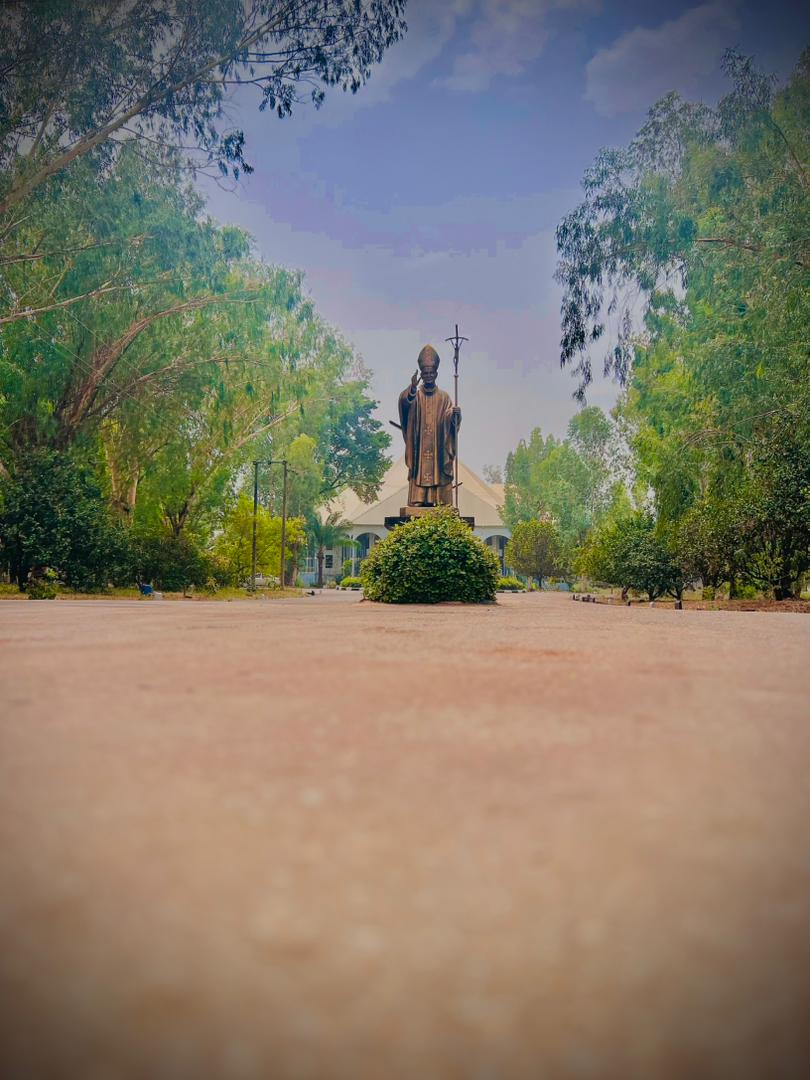
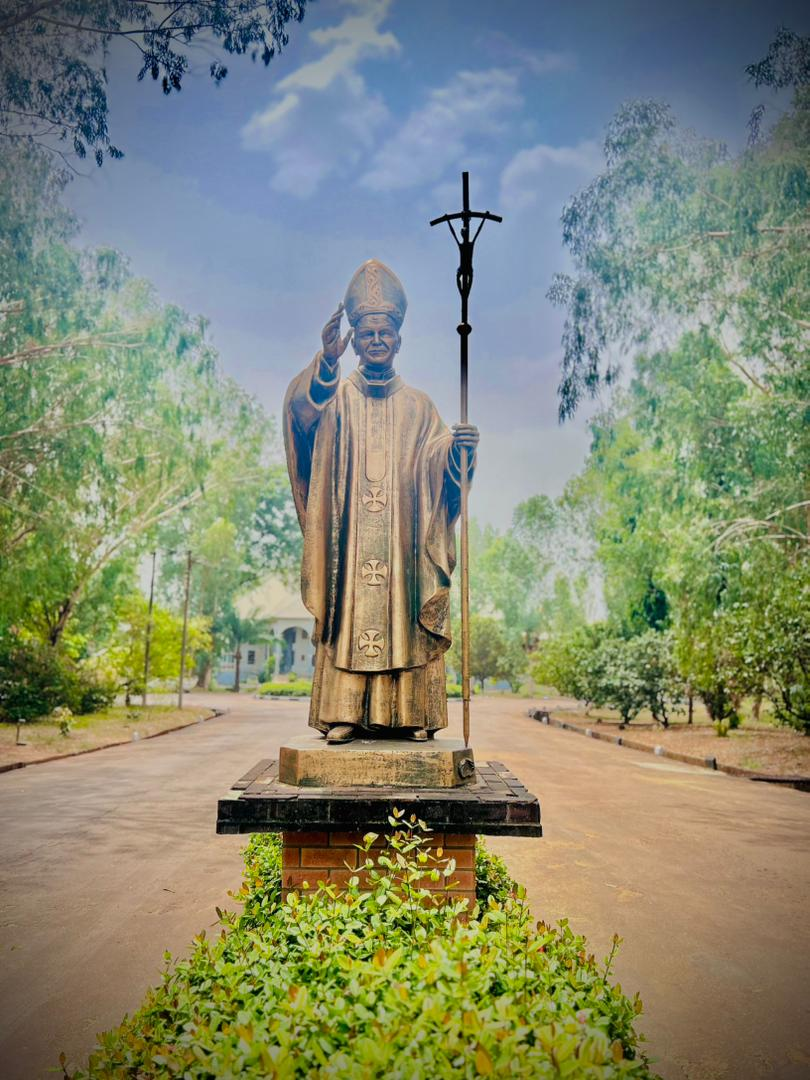
UI adjustments

diff --git a/src/index.css b/src/index.css
@@ -657,14 +657,15 @@ footer {
 
 .welcome-text h2 {
     font-size: 32px;
-    margin-bottom: 25px;
+    margin-bottom: 15px;
     color: #333;
 }
 
 .welcome-text p {
-    font-size: 18px;
-    line-height: 1.8;
+    font-size: 15px;
+    line-height: 2;
     color: #444;
+    text-align: justify;
 }
 
 .welcome-line {
@@ -718,6 +719,7 @@ footer {
         font-size: 17px;
         line-height: 1.7;
         color: #333;
+        text-align: justify;
     }
 
     .welcome-line {
@@ -735,6 +737,7 @@ footer {
     .welcome-text p {
         font-size: 15px;
         line-height: 1.6;
+        text-align: justify;
     }
 
     .welcome-text {
@@ -1121,7 +1124,7 @@ footer {
 .centenary-btn a {
     background: #3ba3c9;
     color: white;
-    padding: 14px 28px;
+    padding: 10px 28px;
     text-decoration: none;
     font-size: 16px;
     border-radius: 6px;
@@ -1223,7 +1226,7 @@ footer {
   display:inline-block;
   background:#1c8bb4;
   color:white;
-  padding:12px 22px;
+  padding:10px 22px;
   text-decoration:none;
   border-radius:5px;
   margin-top:10px;
@@ -1655,7 +1658,7 @@ footer {
 
 /* See More Button */
 .facilities-footer {
-    margin-top: 50px;
+    margin-top: 30px;
 }
 
 .see-more-btn {
@@ -1697,9 +1700,9 @@ footer {
 }
 
 .pub-title {
-  font-size: 48px;
+  font-size: 40px;
   color: #7a3c3c; /* Dark Maroon */
-  margin-bottom: 50px;
+  margin-bottom: 20px;
   font-weight: bold;
 }
 

diff --git a/src/components/Publications.jsx b/src/components/Publications.jsx
@@ -37,21 +37,24 @@ const Publications = () => {
   const [currentIndex, setCurrentIndex] = useState(0);
 
   // Auto-slide effect
-  useEffect(() => {
-    const timer = setInterval(() => {
-      handleNext();
-    }, 4000); // Slides every 4 seconds
-    return () => clearInterval(timer);
-  }, [currentIndex]);
-
   const handleNext = () => {
-    setCurrentIndex((prev) => (prev + 1) % (publicationData.length - 2)); 
-    // "- 2" ensures we don't slide into empty space when showing 3 at a time
-  };
+  setCurrentIndex((prev) => (prev + 1) % (publicationData.length - 2));
+};
 
-  const handlePrev = () => {
-    setCurrentIndex((prev) => (prev - 1 + (publicationData.length - 2)) % (publicationData.length - 2));
-  };
+const handlePrev = () => {
+  setCurrentIndex((prev) => 
+    (prev - 1 + (publicationData.length - 2)) % (publicationData.length - 2)
+  );
+};
+
+// Auto-slide effect
+useEffect(() => {
+  const timer = setInterval(() => {
+    handleNext();
+  }, 4000);
+
+  return () => clearInterval(timer);
+}, [currentIndex]);
 
   return (
     <section className="publications-section">

diff --git a/src/components/MainSections.jsx b/src/components/MainSections.jsx
@@ -9,7 +9,7 @@ export const Welcome = () => (
             <div className="welcome-text">
                 <h2>Rector's Welcome</h2>
                 <p>
-                    <strong>"WELCOME TO OUR WEBSITE!</strong><br /><br />
+                    <strong>"WELCOME TO OUR WEBSITE!</strong><br />
                      This is the official website of Pope John Paul II Major Seminary, Okpuno, Awka, Nigeria. The seminary was established in 1997 as a philosophy campus of Bigard Memorial Seminary Enugu, Nigeria. In the year 2000, it came to be named after Pope John Paul II in gratitude for his visit to Nigeria to beatify our brother Blessed Michael Iwene Tansi. It remained still attached to Bigard in many ecclesiastical issues till 2012 when it gained full autonomy from Rome as an independent Seminary within Onitsha Ecclesiastical Province. It is situated in Okpuno, Awka South, Anambra State, Nigeria. Welcome and explore our website."
                 </p>
                 <div className="welcome-line"></div>

diff --git a/src/components/Facilities.jsx b/src/components/Facilities.jsx
@@ -4,14 +4,14 @@ const Facilities = () => {
   const facilityList = [
     {
       id: 1,
-      title: "Bigard Chapel",
-      image: "/images/chapel.jpg",
+      title: "School Chapel",
+      image: "/images/chapel.jpeg",
       link: "/pages/facilities/chapel.html"
     },
     {
       id: 2,
       title: "Academic Block",
-      image: "/images/pjpms_compound.jpg",
+      image: "/images/academic-block.jpg",
       link: "/pages/facilities/academic-block.html"
     },
     {

diff --git a/src/components/SpecialSection.jsx b/src/components/SpecialSection.jsx
@@ -5,7 +5,7 @@ const SpecialSection = () => {
     {
       id: "01",
       title: "Excellence in Spirituality",
-      image: "/images/entrance1.jpg", 
+      image: "/images/spirituality.jpg", 
     },
     {
       id: "02",
